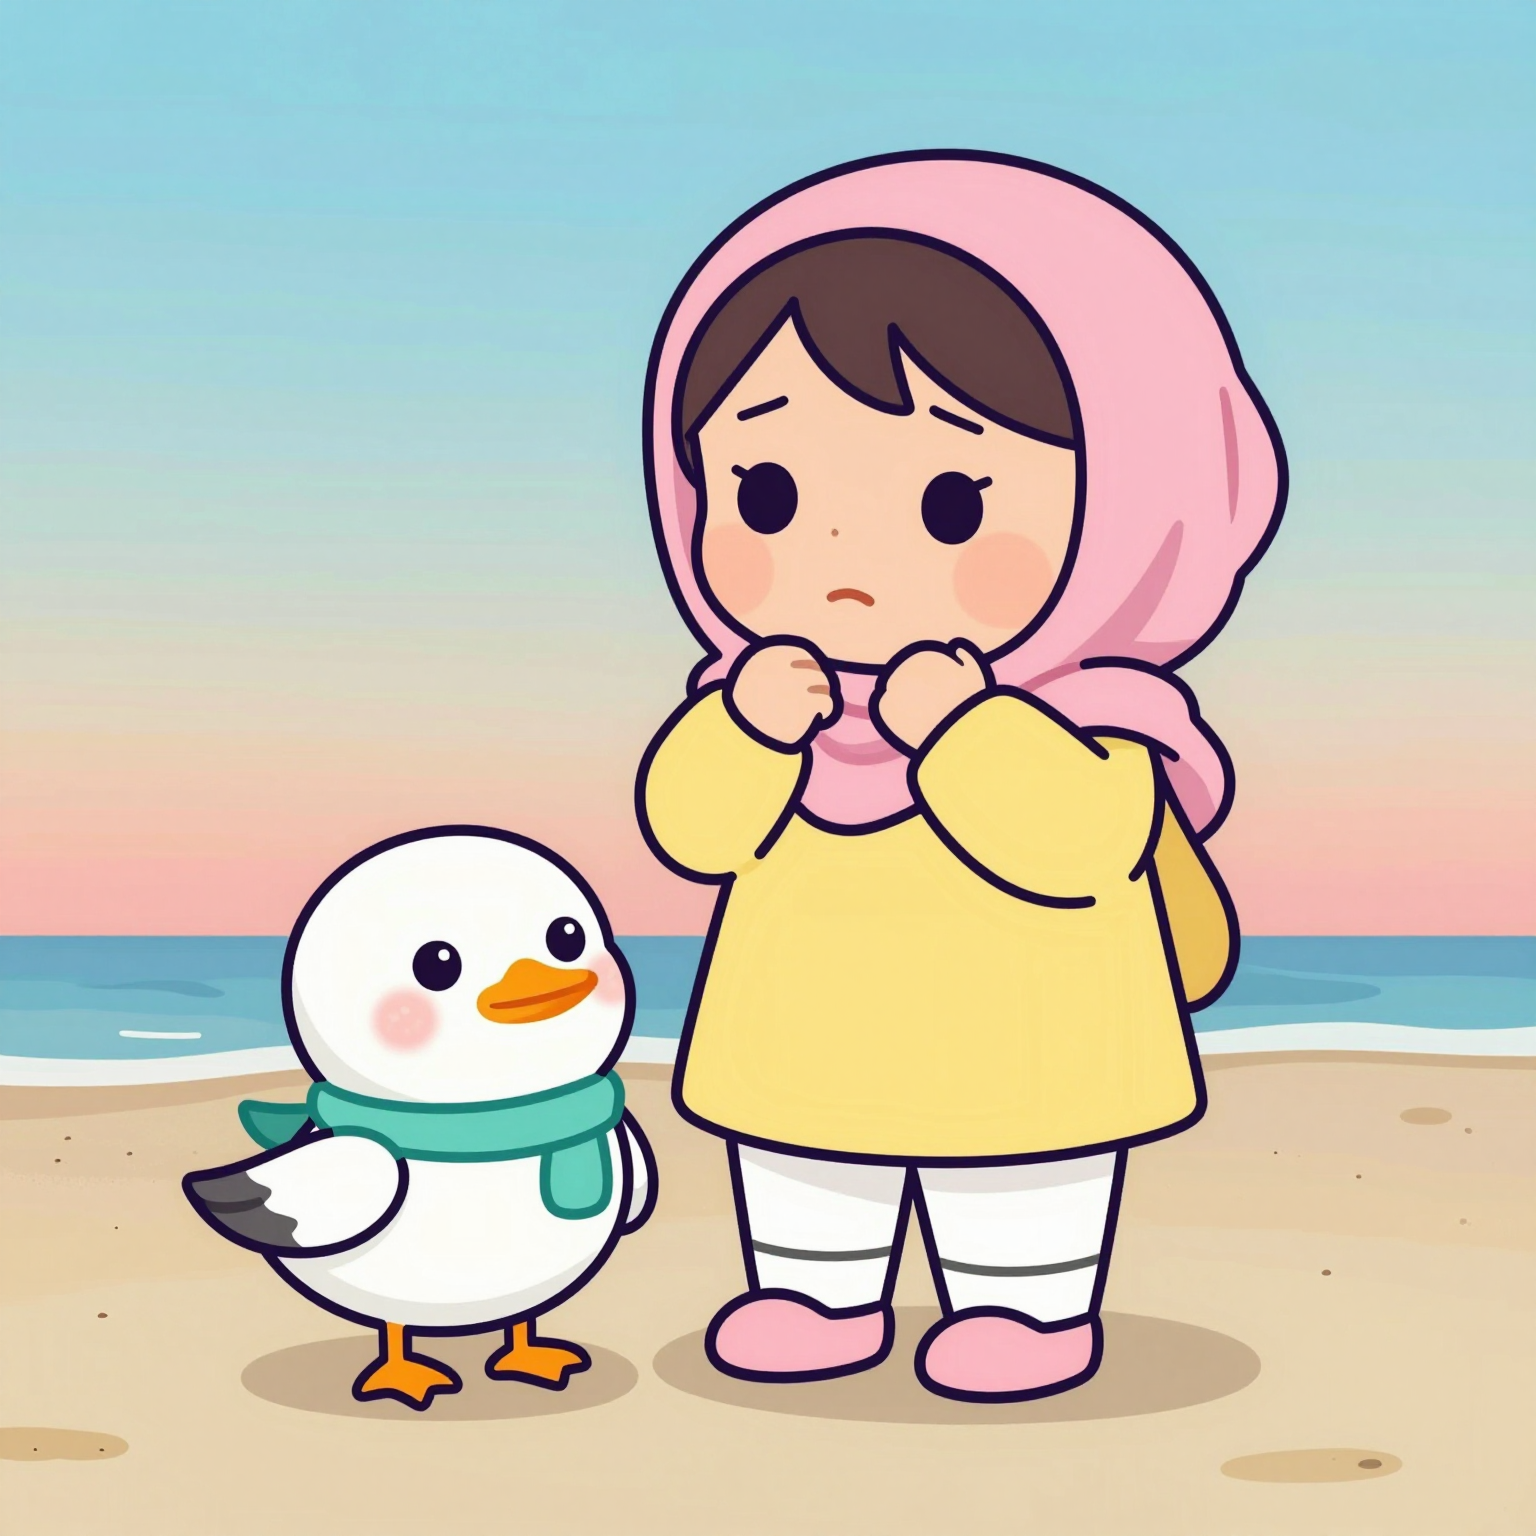
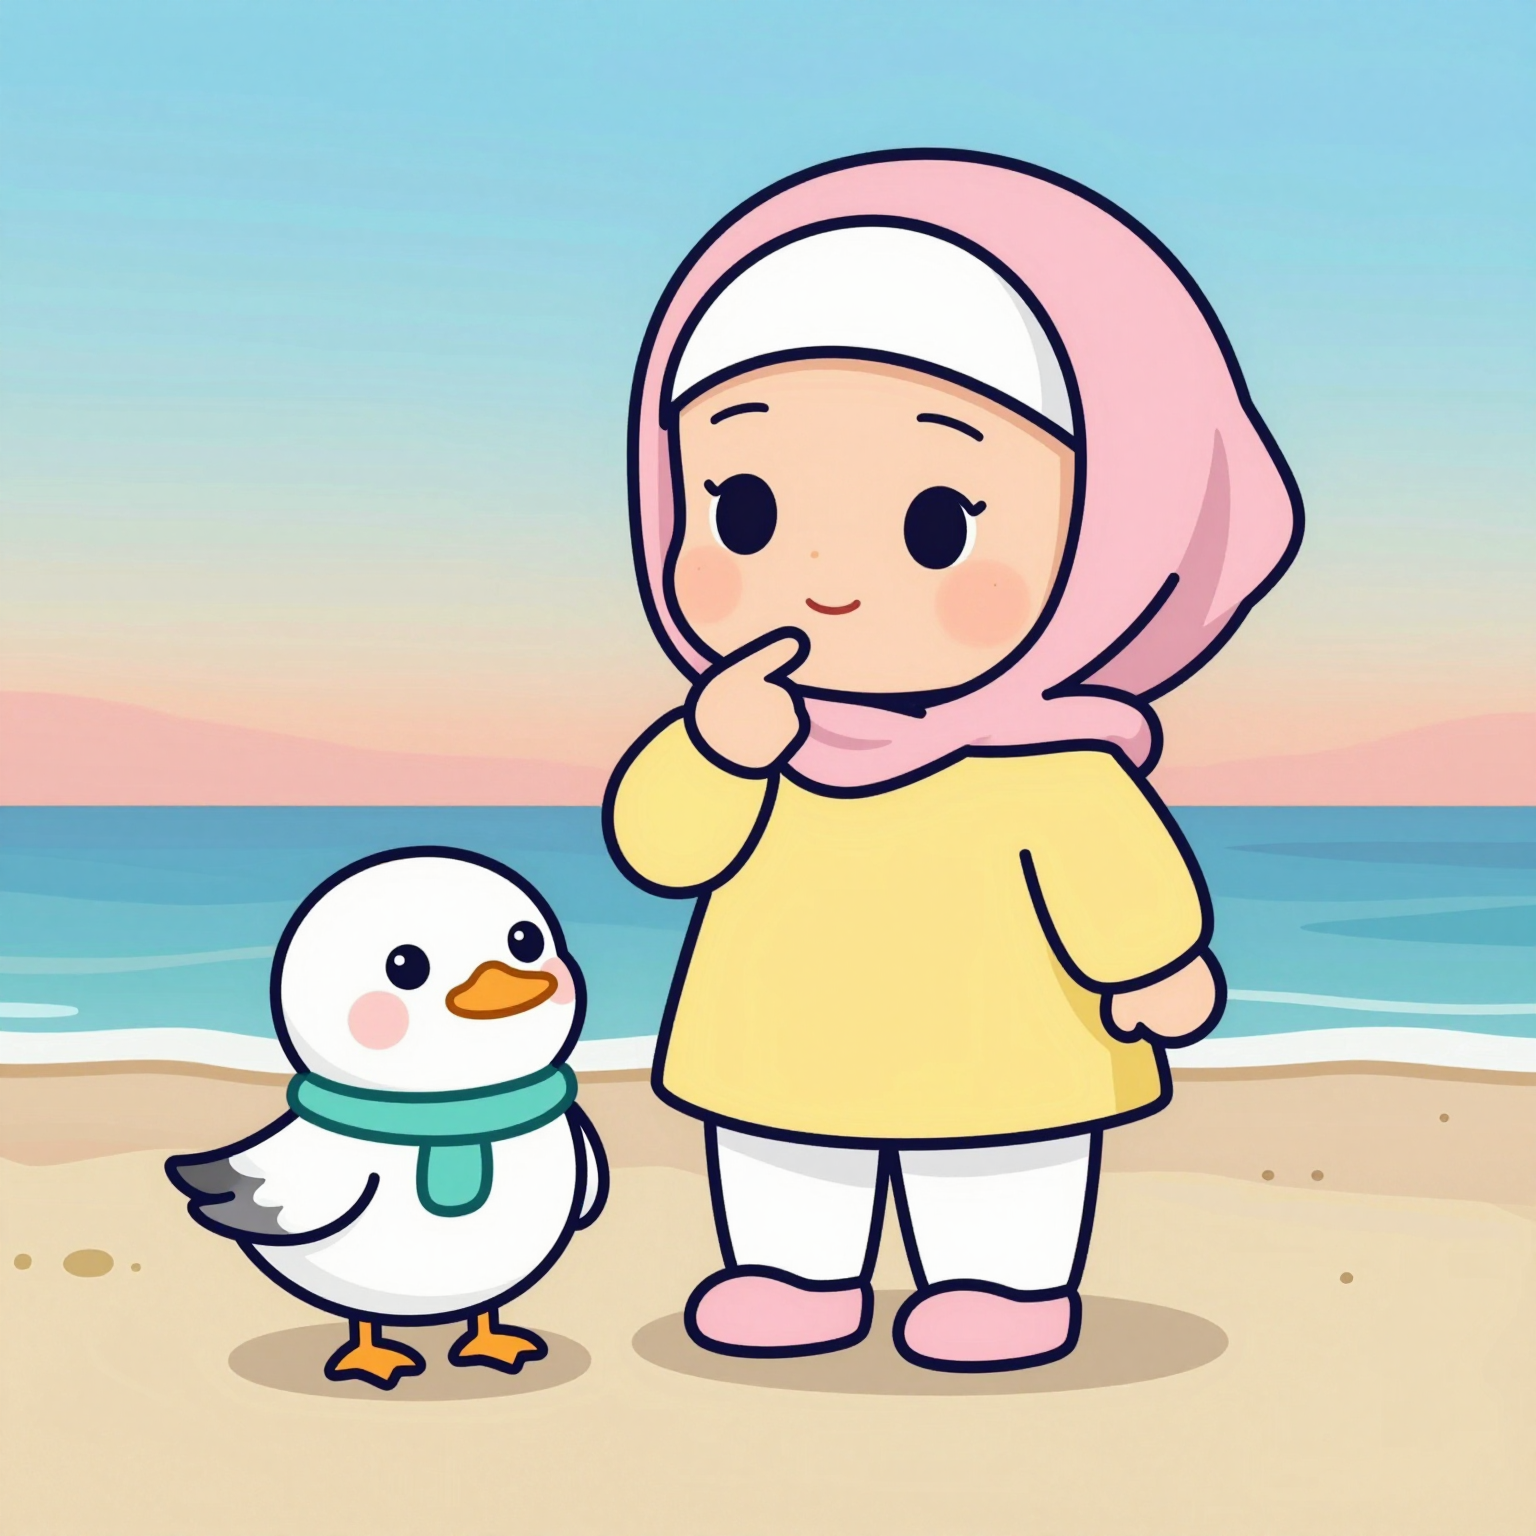
Salma redraw (S-001), game voice scripts, chained word clips
- book: bint 913, friends 1004, nashit 1013 redrawn with the under-cap line and long sleeves; web copies and story s03/s10 crops updated
- audio/transcripts/games-ar.json: 48 game, sticker, start-screen and KG lines to record one clip at a time
- kids.js: KS.clipsFor plays a line with no clip of its own as a chain of sentence clips

Claude-Session: https://claude.ai/code/session_01EWdPZ3oeoZGPvTXJkNvuni

diff --git a/pitch/index.html b/pitch/index.html
@@ -1063,7 +1063,7 @@ a.pbtn:hover,a.pbtn:focus-visible{background:var(--hot-text)}
 
 <section class="slide" data-layout="two-column" data-id="team" data-fit="off" data-demo>
 <h2>What the team suggests next</h2>
-<p class="lede"><span data-n>14</span> experts reviewed everything; the CEO ranked their <span data-n>55</span> suggestions. <b><span data-n>36</span> are done</b>, <span data-n>10</span> more wait only for print or audio.</p>
+<p class="lede"><span data-n>14</span> experts reviewed everything; the CEO ranked their <span data-n>55</span> suggestions. <b><span data-n>36</span> are done</b>, <span data-n>11</span> more wait only for print or audio.</p>
 <div class="team bx-ui">
 <div class="trow"><input type="search" id="tq" placeholder="Search: title, area, note, Arabic (سلمى)" aria-label="Search suggestions" autocomplete="off" spellcheck="false"><span class="tcount" id="tcount" aria-live="polite"></span>
 <button type="button" class="tchip" data-pri="" aria-pressed="true">Any priority</button><button type="button" class="tchip" data-pri="now" aria-pressed="false">Now</button><button type="button" class="tchip" data-pri="next" aria-pressed="false">Next</button><button type="button" class="tchip" data-pri="later" aria-pressed="false">Later</button>
@@ -1072,7 +1072,7 @@ a.pbtn:hover,a.pbtn:focus-visible{background:var(--hot-text)}
 <div class="trow" style="gap:8px"><span class="tlab chip">Suggested by</span><span id="trole"></span><button type="button" class="ttog chip" id="tsup" aria-pressed="false" title="Also match suggestions this role supported">Include supporters</button></div>
 <div class="tscroll" tabindex="0" role="region" aria-label="Suggestions table"><table class="ttable"><thead><tr><th scope="col" data-key="priority" class="c-p" aria-sort="none"><button type="button">Priority</button></th><th scope="col" data-key="suggestion" class="" aria-sort="none"><button type="button">Suggestion</button></th><th scope="col" data-key="by" class="c-by" aria-sort="none"><button type="button">Suggested by</button></th><th scope="col" data-key="area" class="c-a" aria-sort="none"><button type="button">Area</button></th><th scope="col" data-key="effort" class="c-e" aria-sort="none"><button type="button">Effort</button></th><th scope="col" data-key="severity" class="c-v" aria-sort="none"><button type="button">Severity</button></th><th scope="col" data-key="note" class="c-n" aria-sort="none"><button type="button">CEO note</button></th></tr></thead><tbody></tbody></table></div>
 </div>
-<script type="application/jsonl" id="team-data">{"id": "S-001", "title": "Redraw Salma's book pictures with the under-cap and long sleeves", "title_ar": "سَلْمَى بِحِجَابٍ كَامِلٍ", "detail": "Salma's fringe shows in the book pictures bint / friends / nashit (print pp 4, 13, 15; story s03/s10), and her forearm is bare on p15, which contradicts the site art and the deck's \"Modest clothing on every child\". Redraw with $HIJAB + NEG \"hair, fringe, bangs\", long sleeves, a curious (not worried) face, and Noori beside the children rather than on Salma's head. Do it one GPU job at a time, then run web-art.sh and print-book.sh again before the Lulu proof.", "area": "Islamic adab", "suggested_by": "islamic-studies-advisor", "roles": ["early-childhood-educator", "islamic-studies-advisor", "ceo", "art-director", "qa-lead", "print-production-specialist"], "source_ids": ["ISA-01", "ISA-02", "ART-01", "QA-02", "PPS-01", "CEO-03", "ECE-05", "ART-04", "ART-T1"], "severity": "major", "priority": "now", "effort": "M", "needs_owner": false, "ceo_note": "RULING recorded (islamic-studies-advisor): not a veto, but redraw before Lulu and the owners' meeting. It is the one finding that can cost trust in the room (step 1).", "status": "proposed"}
+<script type="application/jsonl" id="team-data">{"id": "S-001", "title": "Redraw Salma's book pictures with the under-cap and long sleeves", "title_ar": "سَلْمَى بِحِجَابٍ كَامِلٍ", "detail": "Salma's fringe shows in the book pictures bint / friends / nashit (print pp 4, 13, 15; story s03/s10), and her forearm is bare on p15, which contradicts the site art and the deck's \"Modest clothing on every child\". Redraw with $HIJAB + NEG \"hair, fringe, bangs\", long sleeves, a curious (not worried) face, and Noori beside the children rather than on Salma's head. Do it one GPU job at a time, then run web-art.sh and print-book.sh again before the Lulu proof.", "area": "Islamic adab", "suggested_by": "islamic-studies-advisor", "roles": ["early-childhood-educator", "islamic-studies-advisor", "ceo", "art-director", "qa-lead", "print-production-specialist"], "source_ids": ["ISA-01", "ISA-02", "ART-01", "QA-02", "PPS-01", "CEO-03", "ECE-05", "ART-04", "ART-T1"], "severity": "major", "priority": "now", "effort": "M", "needs_owner": false, "ceo_note": "RULING recorded (islamic-studies-advisor): not a veto, but redraw before Lulu and the owners' meeting. It is the one finding that can cost trust in the room (step 1).", "status": "done-pending-print", "status_note": "Redrawn 2026-11-01 with the under-cap line and long sleeves: bint 913, friends 1004, nashit 1013 (book web pictures and story s03/s10 updated). The print PDFs pick them up at the next print-book.sh run (S-016)."}
 {"id": "S-002", "title": "Make every parent CTA readable in all six themes", "title_ar": "اِحْجِزْ حِصَّةً تَجْرِيبِيَّةً", "detail": "Page rules beat .btn .en, so the English line of the parent CTA, and on Andalus the whole button, falls to 1.35–3.81:1 (hub, 404, mockups 01/05). Change kids.css to .btn.btn .en { color: inherit }, use .parents a:not(.btn) on Andalus, delete mosaic line 82, then rerun the rendered-contrast scan (every span ≥ 4.5).", "area": "UI", "suggested_by": "ui-designer", "roles": ["ui-designer", "kids-ux-designer", "frontend-engineer", "accessibility-auditor", "qa-lead", "parent-and-community-advocate"], "source_ids": ["UI-01", "UI-02", "UI-03", "UI-04", "KUX-01", "FE-01", "A11Y-01", "QA-01", "PCA-02", "UI-T1"], "severity": "major", "priority": "now", "effort": "S", "needs_owner": false, "ceo_note": "Six roles found the same issue. Parents cannot read their one action (step 5), and it is a one-line fix.", "status": "done"}
 {"id": "S-003", "title": "Let the quiz retry after a hint so every child ends with full stars", "title_ar": "كُلُّ النُّجُومِ لَكُمْ", "detail": "KS.quiz draws an empty star for each wrong answer, locks the question and shows \"You got 2 of 5\", so the child sees lost stars. Change it to shake + hint + try again, award the star once the answer is found, and end with «أَحْسَنْتُمْ! كُلُّ النُّجُومِ لَكُمْ».", "area": "Kids UX", "suggested_by": "early-childhood-educator", "roles": ["arabic-pedagogy-specialist", "early-childhood-educator", "ceo"], "source_ids": ["ECE-01", "APS-08", "CEO-05"], "severity": "major", "priority": "now", "effort": "S", "needs_owner": false, "ceo_note": "Breaks the standing ruling of no punishment; a child must feel safe when wrong (child test 4). Small change in one shared file.", "status": "done"}
 {"id": "S-004", "title": "Teach the بِنْتٌ / أُمٌّ / شَمْسٌ fence by pointing, not by heart", "title_ar": "هَيَّا نُشِيرُ وَنَقُولُ", "detail": "Book p15 «نَحْفَظُهَا فِي قُلُوبِنَا», deck slide 12 «نَحْفَظُهَا حِفْظًا» and the article's \"we learn these by heart\" name memorising as the method. Replace them with «هَيَّا نُشِيرُ وَنَقُولُ: هَذِهِ بِنْتٌ، هَذِهِ أُمٌّ، هَذِهِ شَمْسٌ!» and the open-empty-hands «بِلَا صَدَفَةٍ» gesture.", "area": "Pedagogy", "suggested_by": "arabic-pedagogy-specialist", "roles": ["arabic-pedagogy-specialist", "ceo"], "source_ids": ["APS-03", "CEO-04"], "severity": "major", "priority": "now", "effort": "S", "needs_owner": false, "ceo_note": "Our own page contradicts the vision line, interaction not memorisation (step 4). The fix is text only.", "status": "done-pending-print"}

diff --git a/assets/kids.js b/assets/kids.js
@@ -323,13 +323,17 @@
     on();
     busy = setTimeout(off, 6000);
     try { if (curAudio) { curAudio.pause(); curAudio = null; } } catch (e) {}
-    var clip = (btn && btn.getAttribute && btn.getAttribute('data-audio')) || (KS.clipFor && KS.clipFor(text));
-    if (clip) {
+    var own = btn && btn.getAttribute && btn.getAttribute('data-audio');
+    var clips = own ? [own] : (KS.clipsFor && KS.clipsFor(text));
+    if (clips) {
       try {
-        var a = new Audio(clip); curAudio = a;
-        a.onended = off;
-        a.onerror = function () { tts(); };
-        var pr = a.play(); if (pr && pr.catch) pr.catch(function () { tts(); });
+        var i = 0;
+        (function next() {                       // play the clips one after another
+          var a = new Audio(clips[i]); curAudio = a;
+          a.onended = function () { if (curAudio !== a) return; if (++i < clips.length) { clearTimeout(busy); busy = setTimeout(off, 6000); next(); } else off(); };
+          a.onerror = function () { if (curAudio === a) tts(); };
+          var pr = a.play(); if (pr && pr.catch) pr.catch(function (e) { if (curAudio === a && (!e || e.name !== 'AbortError')) tts(); });
+        })();
         return;
       } catch (e) { /* fall through to the voice */ }
     }
@@ -762,6 +766,15 @@
     var k = WORD_CLIPS[bare(text)];
     if (!k) { var w = LABELS[text]; k = w && WORD_CLIPS[bare(w.split(' — ')[0])]; }   // a picture name, e.g. 'boy'
     return k ? AUDIO_BASE + 'words/' + k + '.mp3' : null;
+  };
+  /* a line with no clip of its own, e.g. «أَحْسَنْتُمْ! هَذَا وَلَدٌ.»: one clip per sentence part, or null */
+  KS.clipsFor = function (text) {
+    var one = KS.clipFor(text); if (one) return [one];
+    var parts = String(text || '').split(/[.!؟?:]+/).filter(function (p) { return bare(p); });
+    if (parts.length < 2) return null;
+    var out = [];
+    for (var i = 0; i < parts.length; i++) { var c = KS.clipFor(parts[i]); if (!c) return null; out.push(c); }
+    return out;
   };
   var CLOTH = { 'f-masc': 'var(--masc)', 'f-fem': 'var(--fem)', 'f-brand': 'var(--brand)', 'f-leaf': '#4CAF6A', 'f-blue': '#4C7DE0', 'f-coral': '#FF8A6B' };
 
